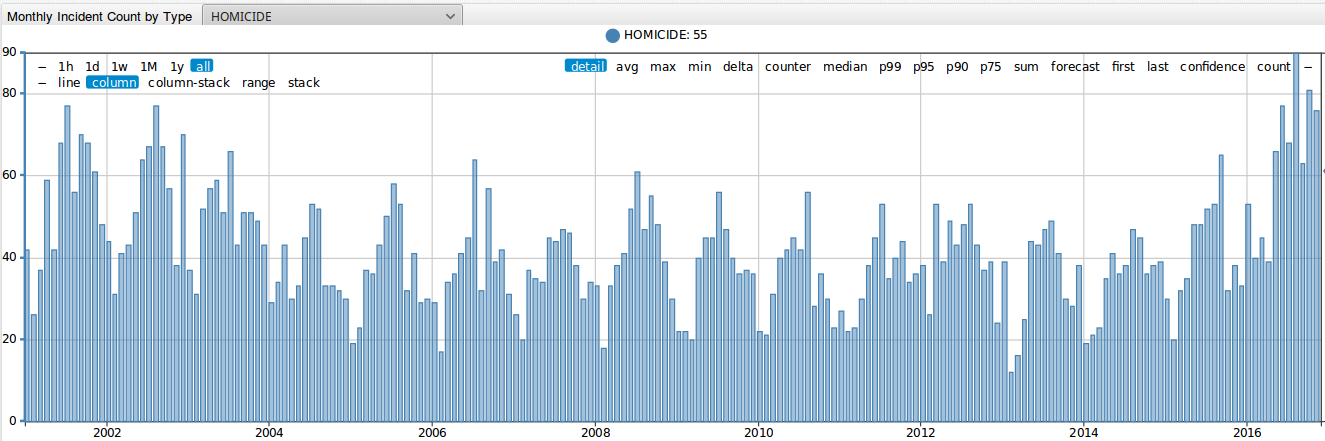
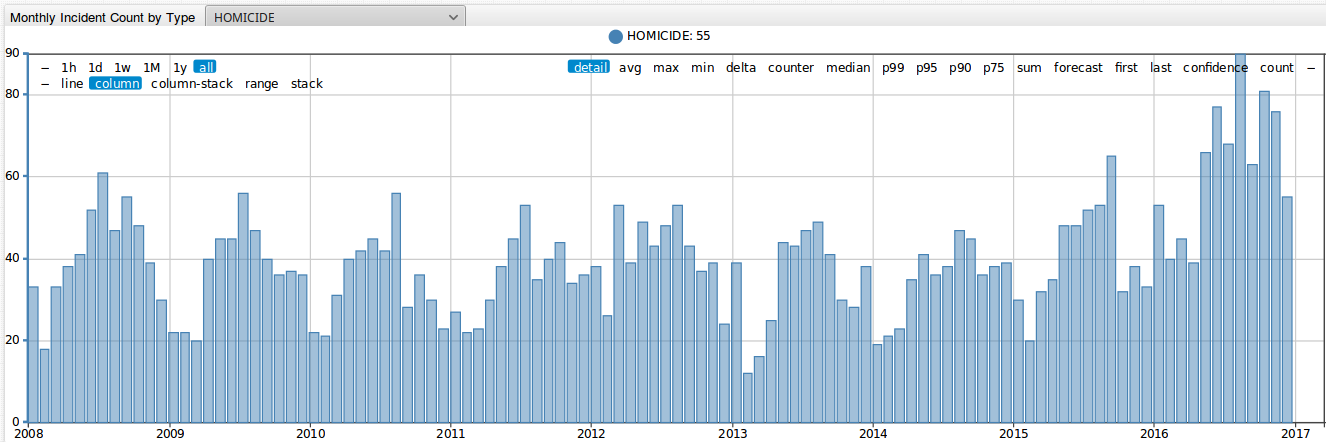
chicagocrime

diff --git a/ChicagoCrime/README.md b/ChicagoCrime/README.md
@@ -6,11 +6,11 @@ Analyzing Chicago Crime Statistics
 ### Introduction
 ----------------
 
-Pizza. Michael Jordan. Lake Michigan. Jazz. The Bean. These are some of the great things that Chicago, Illinois, is known for. There is another thing that has defined the city since its birth, which 
+Pizza. Michael Jordan. Lake Michigan. Jazz. The Bean. These are some of the great things that Chicago, Illinois, is known for. There is another thing that has defined the city since its birth, and 
 as of lately seems to be all we think about when it comes to Chicago: crime. In 2016, Chicago, the 3rd most populous city in the United States, [had more homicides](http://www.foxnews.com/us/2017/01/01/1-chicagos-bloodiest-years-ends-with-762-homicides.html)
-than New York City and Los Angeles combined. In 2016, there were [762 murders](http://edition.cnn.com/2017/01/02/us/chicago-murder-rate-2016-visual-guide/) in the city, a 53% increase from 496 murders
+than New York City and Los Angeles **combined**. In 2016, there were [762 murders](http://edition.cnn.com/2017/01/02/us/chicago-murder-rate-2016-visual-guide/) in the city, a **53% increase** from 496
 in 2015. In 2016, there were 4,331 total shooting victims, compared to 2,939 in 2015. From 2004 to 2015, the peak number of murders in the city was 513. From 2011 to 2015, the city recorded less 
-than 3,000 shooting victims per year. So what is the reason for this alarming increase in crime in Chicago? Was there an increase in all crime, or was the rise in murders and shootings an 
+than 3,000 shooting victims per year. So what is the reason for this alarming increase in violence in Chicago? Was there an increase in all kinds of crime, or was the rise in murders and shootings an 
 exception? In this article we will analyze a dataset from data.gov looking at [Chicago crime statistics](https://catalog.data.gov/dataset/crimes-2001-to-present-398a4) from 2001 to the present time.  
 
 ### Chicago Crime Statistics Dataset
@@ -32,7 +32,8 @@ following two aspects of ASTD to look into this dataset: interactive graphs from
 ### Homicide Numbers
 --------------------
 
-Below is an image of monthly homicide totals from January 2001 through December 2016. The month with the highest murder total in 2016 was August, which experienced 90 murders. August 2015 only had 53 murders.   
+Below is an image of monthly homicide totals from January 2008 through December 2016. The month with the highest murder total in 2016 was August, which experienced 90 murders. August 2015 only had 53 murders.
+Taking a closer look at this graph, we can see that every year seems to follow a general trend of low numbers to start the year out, with totals 
 
 ![Figure 1](Images/Figure1.png)
 
@@ -41,33 +42,27 @@ domestic violence, among many others.
 
 [![](Images/button.png)](https://apps.axibase.com/chartlab/3f33d4ba)
 
-Looking at the previous figure, we can acquire a general understanding of the landscape of Chicago, but it is difficult to tell how monthly totals for 2016 compare to previous years. Looking at this
-next figure, we can see that murder totals were higher almost across the board for 2016 than in previous years.
+From the previous figure we can acquire a general understanding of the landscape of Chicago, but it is difficult to tell how monthly totals for 2016 compare to previous years. Looking at the below
+line chart, we can see that murder totals were higher almost across the board for 2016 than in previous years.
 
 ![Figure 5](Images/Figure5.png)
 
-Looking at this next figure, we can observe where exactly homicides were committed. This dataset provides 42 different locations, including Street, Alley, Apartment, and Tavern among many others.
-We can see that Homicides most often take place on the Street more than anywhere else.
+Click on this button to explore this Chart Lab portal:
 
-![Figure 2](Images/Figure2.png)
+[![](Images/button.png)](https://apps.axibase.com/chartlab/3f33d4ba/13/)
 
-Below is a table showing the locations with some of the highest number of murders for 2016 and 2015.
+Did the most common locations for homicides changes from 2015 to 2016? The below pie chart shows the top five locations were homicides were committed in 2015 and 2016. Both years have the same top five
+locations for murders (alley, apartment, street, house, auto) and we can see that the greatest number of homicide took place on the street. These percentages experienced almost no change from 2015
+to 2016. The percentage of murders on the street in 2015 and 2016 was exactly same at 68%.  
 
-| Location Description      | 2016| 2015|
-|---------------------------|-----|-----| 
-| STREET                    | 430 | 282 |
-| AUTO                      | 85  | 52 |
-| ALLEY                     | 44  | 25 |
-| APARTMENT                 | 44  | 22 |
-| HOUSE                     | 34  | 35 |
-| PORCH                     | 19  | 14 |
+![Figure 6](Images/Figure6.png)
 
-By clicking on the below link, you can filter each of the 32 crime types included in this dataset for 42 locations. 
+Click on this button to explore each of the 32 crime types included in this dataset for 42 locations: 
 
-[![](Images/button.png)](https://apps.axibase.com/chartlab/3f33d4ba/2/)
+[![](Images/button.png)](https://apps.axibase.com/chartlab/d5c04002/6/)
 
-### A Deeper Look at Crime
--------------------------- 
+### A Deeper Look at Crime in Chicago
+-------------------------------------
 
 So what caused this drastic increase in murders in Chicago in 2016? Did the city experience an uptick in crime as a whole? There actually has been a long term decrease in crime in general Chicago, 
 as we can see in the figure below. 
